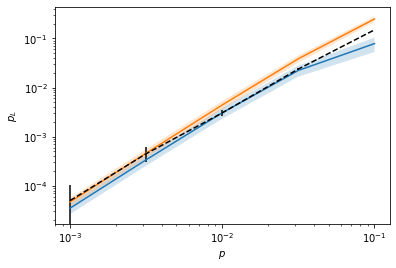
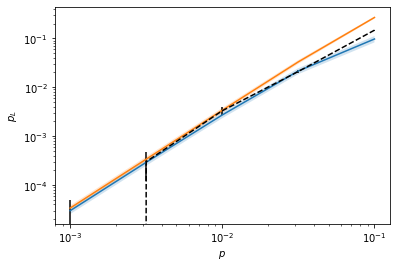
fixed docs

Changed region(s): [[0.1212, 0.0597, 0.9697, 0.8358], [0.1212, 0.5075, 0.1515, 0.5373]]

diff --git a/docs/examples.html b/docs/examples.html
@@ -294,19 +294,19 @@ code span.wa { color: #60a0b0; font-weight: bold; font-style: italic; } /* Warni
 <span id="cb1-4"><a href="#cb1-4" aria-hidden="true" tabindex="-1"></a>err_params <span class="op">=</span> {<span class="st">'q'</span>: sample_range}</span>
 <span id="cb1-5"><a href="#cb1-5" aria-hidden="true" tabindex="-1"></a>err_model <span class="op">=</span> qs.noise.S1</span>
 <span id="cb1-6"><a href="#cb1-6" aria-hidden="true" tabindex="-1"></a>CHP <span class="op">=</span> qs.StabilizerSimulator</span>
-<span id="cb1-7"><a href="#cb1-7" aria-hidden="true" tabindex="-1"></a>p_max <span class="op">=</span> {<span class="st">'q'</span>: <span class="fl">1e-2</span>}</span>
+<span id="cb1-7"><a href="#cb1-7" aria-hidden="true" tabindex="-1"></a>p_max <span class="op">=</span> {<span class="st">'q'</span>: <span class="fl">1e-3</span>}</span>
 <span id="cb1-8"><a href="#cb1-8" aria-hidden="true" tabindex="-1"></a></span>
 <span id="cb1-9"><a href="#cb1-9" aria-hidden="true" tabindex="-1"></a><span class="co"># Direct MC sampling</span></span>
 <span id="cb1-10"><a href="#cb1-10" aria-hidden="true" tabindex="-1"></a></span>
 <span id="cb1-11"><a href="#cb1-11" aria-hidden="true" tabindex="-1"></a><span class="bu">print</span>(<span class="st">"--- Direct MC sampling ---"</span>)</span>
 <span id="cb1-12"><a href="#cb1-12" aria-hidden="true" tabindex="-1"></a></span>
 <span id="cb1-13"><a href="#cb1-13" aria-hidden="true" tabindex="-1"></a>mc_sam <span class="op">=</span> qs.DirectSampler(ghz1, CHP, err_params<span class="op">=</span>err_params, err_model<span class="op">=</span>err_model)</span>
-<span id="cb1-14"><a href="#cb1-14" aria-hidden="true" tabindex="-1"></a>mc_sam.run(<span class="dv">20000</span>) <span class="co"># Needs 20k * len(sample_range) samples</span></span>
+<span id="cb1-14"><a href="#cb1-14" aria-hidden="true" tabindex="-1"></a>mc_sam.run(<span class="dv">10_000</span>)</span>
 <span id="cb1-15"><a href="#cb1-15" aria-hidden="true" tabindex="-1"></a></span>
 <span id="cb1-16"><a href="#cb1-16" aria-hidden="true" tabindex="-1"></a><span class="bu">print</span>(<span class="st">"--- Subset sampling ---"</span>)</span>
 <span id="cb1-17"><a href="#cb1-17" aria-hidden="true" tabindex="-1"></a></span>
-<span id="cb1-18"><a href="#cb1-18" aria-hidden="true" tabindex="-1"></a>ss_sam <span class="op">=</span> qs.SubsetSampler(protocol<span class="op">=</span>ghz1, simulator<span class="op">=</span>CHP,  p_max<span class="op">=</span>p_max, err_model<span class="op">=</span>err_model, err_params<span class="op">=</span>err_params, L<span class="op">=</span><span class="dv">2</span>)</span>
-<span id="cb1-19"><a href="#cb1-19" aria-hidden="true" tabindex="-1"></a>ss_sam.run(<span class="dv">10000</span>) <span class="co"># Needs only 10k samples</span></span>
+<span id="cb1-18"><a href="#cb1-18" aria-hidden="true" tabindex="-1"></a>ss_sam <span class="op">=</span> qs.SubsetSampler(protocol<span class="op">=</span>ghz1, simulator<span class="op">=</span>CHP,  p_max<span class="op">=</span>p_max, err_model<span class="op">=</span>err_model, err_params<span class="op">=</span>err_params, L<span class="op">=</span><span class="dv">1</span>)</span>
+<span id="cb1-19"><a href="#cb1-19" aria-hidden="true" tabindex="-1"></a>ss_sam.run(<span class="dv">1_000</span>)</span>
 <span id="cb1-20"><a href="#cb1-20" aria-hidden="true" tabindex="-1"></a></span>
 <span id="cb1-21"><a href="#cb1-21" aria-hidden="true" tabindex="-1"></a><span class="co"># Plot results</span></span>
 <span id="cb1-22"><a href="#cb1-22" aria-hidden="true" tabindex="-1"></a></span>
@@ -325,27 +325,27 @@ code span.wa { color: #60a0b0; font-weight: bold; font-style: italic; } /* Warni
 </div>
 <div class="cell-output cell-output-display">
 <script type="application/vnd.jupyter.widget-view+json">
-{"model_id":"c30af7352b8848efbcc036e228322e73","version_major":2,"version_minor":0}
+{"model_id":"f5078ea69ee44ca2a9e4a59f958fa6cc","version_major":2,"version_minor":0}
 </script>
 </div>
 <div class="cell-output cell-output-display">
 <script type="application/vnd.jupyter.widget-view+json">
-{"model_id":"85d17ff6d8e84d2db1382b3663cb8faf","version_major":2,"version_minor":0}
+{"model_id":"6423f318dcca4695a9341d6b135b69b5","version_major":2,"version_minor":0}
 </script>
 </div>
 <div class="cell-output cell-output-display">
 <script type="application/vnd.jupyter.widget-view+json">
-{"model_id":"88d947adb6e14329b6f917a2410565ce","version_major":2,"version_minor":0}
+{"model_id":"a3041b233b794ff6be5dc13bf84d2069","version_major":2,"version_minor":0}
 </script>
 </div>
 <div class="cell-output cell-output-display">
 <script type="application/vnd.jupyter.widget-view+json">
-{"model_id":"dbb835f27a074435a88fadb0f7f635a5","version_major":2,"version_minor":0}
+{"model_id":"51e00cdcd8ee43358aeeebb7924f6ab2","version_major":2,"version_minor":0}
 </script>
 </div>
 <div class="cell-output cell-output-display">
 <script type="application/vnd.jupyter.widget-view+json">
-{"model_id":"c00abc8bbcb74b69a8290e609cd02b67","version_major":2,"version_minor":0}
+{"model_id":"e284d42109404a6cb53edd8c4db2e9b4","version_major":2,"version_minor":0}
 </script>
 </div>
 <div class="cell-output cell-output-stdout">
@@ -353,7 +353,7 @@ code span.wa { color: #60a0b0; font-weight: bold; font-style: italic; } /* Warni
 </div>
 <div class="cell-output cell-output-display">
 <script type="application/vnd.jupyter.widget-view+json">
-{"model_id":"3132f5207a9f4c5d835c559ef0faedeb","version_major":2,"version_minor":0}
+{"model_id":"32c96c9a54454bb09a61c49fd6375415","version_major":2,"version_minor":0}
 </script>
 </div>
 <div class="cell-output cell-output-display">
@@ -381,12 +381,12 @@ code span.wa { color: #60a0b0; font-weight: bold; font-style: italic; } /* Warni
 <span id="cb5-11"><a href="#cb5-11" aria-hidden="true" tabindex="-1"></a><span class="bu">print</span>(<span class="st">"--- Direct MC sampling ---"</span>)</span>
 <span id="cb5-12"><a href="#cb5-12" aria-hidden="true" tabindex="-1"></a></span>
 <span id="cb5-13"><a href="#cb5-13" aria-hidden="true" tabindex="-1"></a>mc_sam <span class="op">=</span> qs.DirectSampler(steane0, CHP, err_params<span class="op">=</span>err_params, err_model<span class="op">=</span>err_model)</span>
-<span id="cb5-14"><a href="#cb5-14" aria-hidden="true" tabindex="-1"></a>mc_sam.run(<span class="dv">20000</span>)</span>
+<span id="cb5-14"><a href="#cb5-14" aria-hidden="true" tabindex="-1"></a>mc_sam.run(<span class="dv">10_000</span>)</span>
 <span id="cb5-15"><a href="#cb5-15" aria-hidden="true" tabindex="-1"></a></span>
 <span id="cb5-16"><a href="#cb5-16" aria-hidden="true" tabindex="-1"></a><span class="bu">print</span>(<span class="st">"--- Subset sampling ---"</span>)</span>
 <span id="cb5-17"><a href="#cb5-17" aria-hidden="true" tabindex="-1"></a></span>
-<span id="cb5-18"><a href="#cb5-18" aria-hidden="true" tabindex="-1"></a>ss_sam <span class="op">=</span> qs.SubsetSampler(steane0, CHP,  p_max<span class="op">=</span>p_max, err_model<span class="op">=</span>err_model, err_params<span class="op">=</span>err_params, L<span class="op">=</span><span class="dv">3</span>)</span>
-<span id="cb5-19"><a href="#cb5-19" aria-hidden="true" tabindex="-1"></a>ss_sam.run(<span class="dv">2000</span>)</span>
+<span id="cb5-18"><a href="#cb5-18" aria-hidden="true" tabindex="-1"></a>ss_sam <span class="op">=</span> qs.SubsetSampler(steane0, CHP,  p_max<span class="op">=</span>p_max, err_model<span class="op">=</span>err_model, err_params<span class="op">=</span>err_params, L<span class="op">=</span><span class="dv">4</span>)</span>
+<span id="cb5-19"><a href="#cb5-19" aria-hidden="true" tabindex="-1"></a>ss_sam.run(<span class="dv">10_000</span>)</span>
 <span id="cb5-20"><a href="#cb5-20" aria-hidden="true" tabindex="-1"></a></span>
 <span id="cb5-21"><a href="#cb5-21" aria-hidden="true" tabindex="-1"></a><span class="co"># Plot results</span></span>
 <span id="cb5-22"><a href="#cb5-22" aria-hidden="true" tabindex="-1"></a></span>
@@ -405,27 +405,27 @@ code span.wa { color: #60a0b0; font-weight: bold; font-style: italic; } /* Warni
 </div>
 <div class="cell-output cell-output-display">
 <script type="application/vnd.jupyter.widget-view+json">
-{"model_id":"f39fcc91064d442ca6ee5f3e2f3db9f1","version_major":2,"version_minor":0}
+{"model_id":"7e6ab30c00b2495480d23978960e9926","version_major":2,"version_minor":0}
 </script>
 </div>
 <div class="cell-output cell-output-display">
 <script type="application/vnd.jupyter.widget-view+json">
-{"model_id":"3337fa960307438ead25da9739eaad37","version_major":2,"version_minor":0}
+{"model_id":"fdb4ce11a95d4899b3a6cd5b0721db95","version_major":2,"version_minor":0}
 </script>
 </div>
 <div class="cell-output cell-output-display">
 <script type="application/vnd.jupyter.widget-view+json">
-{"model_id":"b986a7550f2e46fda02b35dfcbc119ed","version_major":2,"version_minor":0}
+{"model_id":"a481167bc2a74cbf9edfa12eb1df0091","version_major":2,"version_minor":0}
 </script>
 </div>
 <div class="cell-output cell-output-display">
 <script type="application/vnd.jupyter.widget-view+json">
-{"model_id":"f75e793da15541af950ed4425027da92","version_major":2,"version_minor":0}
+{"model_id":"e323c4f1f7a544b18d1f78ea71ae58c0","version_major":2,"version_minor":0}
 </script>
 </div>
 <div class="cell-output cell-output-display">
 <script type="application/vnd.jupyter.widget-view+json">
-{"model_id":"7bbdd326b02346ea8e7f85a064319f6f","version_major":2,"version_minor":0}
+{"model_id":"87a80b2fb2d44da6ad252ae004ceb8bf","version_major":2,"version_minor":0}
 </script>
 </div>
 <div class="cell-output cell-output-stdout">
@@ -433,7 +433,7 @@ code span.wa { color: #60a0b0; font-weight: bold; font-style: italic; } /* Warni
 </div>
 <div class="cell-output cell-output-display">
 <script type="application/vnd.jupyter.widget-view+json">
-{"model_id":"cb56b7ff9797486281361f7118761854","version_major":2,"version_minor":0}
+{"model_id":"b4925ecb86844b1a919238842b0b808d","version_major":2,"version_minor":0}
 </script>
 </div>
 <div class="cell-output cell-output-display">
@@ -450,37 +450,36 @@ code span.wa { color: #60a0b0; font-weight: bold; font-style: italic; } /* Warni
 <div class="cell">
 <div class="sourceCode cell-code" id="cb9"><pre class="sourceCode python code-with-copy"><code class="sourceCode python"><span id="cb9-1"><a href="#cb9-1" aria-hidden="true" tabindex="-1"></a><span class="co"># Sampling parameters</span></span>
 <span id="cb9-2"><a href="#cb9-2" aria-hidden="true" tabindex="-1"></a></span>
-<span id="cb9-3"><a href="#cb9-3" aria-hidden="true" tabindex="-1"></a><span class="co"># sample_range = np.logspace(-4,-1,7)</span></span>
-<span id="cb9-4"><a href="#cb9-4" aria-hidden="true" tabindex="-1"></a>sample_range <span class="op">=</span> np.logspace(<span class="op">-</span><span class="dv">3</span>,<span class="dv">0</span>,<span class="dv">5</span>)</span>
-<span id="cb9-5"><a href="#cb9-5" aria-hidden="true" tabindex="-1"></a>err_params <span class="op">=</span> {<span class="st">'q'</span>: sample_range}</span>
-<span id="cb9-6"><a href="#cb9-6" aria-hidden="true" tabindex="-1"></a>err_model <span class="op">=</span> qs.noise.S1</span>
-<span id="cb9-7"><a href="#cb9-7" aria-hidden="true" tabindex="-1"></a>CHP <span class="op">=</span> qs.StabilizerSimulator</span>
-<span id="cb9-8"><a href="#cb9-8" aria-hidden="true" tabindex="-1"></a>p_max <span class="op">=</span> {<span class="st">'q'</span>: <span class="fl">1e-2</span>}</span>
-<span id="cb9-9"><a href="#cb9-9" aria-hidden="true" tabindex="-1"></a></span>
-<span id="cb9-10"><a href="#cb9-10" aria-hidden="true" tabindex="-1"></a><span class="co"># Direct MC sampling</span></span>
-<span id="cb9-11"><a href="#cb9-11" aria-hidden="true" tabindex="-1"></a></span>
-<span id="cb9-12"><a href="#cb9-12" aria-hidden="true" tabindex="-1"></a><span class="bu">print</span>(<span class="st">"--- Direct MC sampling ---"</span>)</span>
-<span id="cb9-13"><a href="#cb9-13" aria-hidden="true" tabindex="-1"></a></span>
-<span id="cb9-14"><a href="#cb9-14" aria-hidden="true" tabindex="-1"></a>mc_sam <span class="op">=</span> qs.DirectSampler(flagstab, CHP, err_params<span class="op">=</span>err_params, err_model<span class="op">=</span>err_model)</span>
-<span id="cb9-15"><a href="#cb9-15" aria-hidden="true" tabindex="-1"></a>mc_sam.run(<span class="dv">10000</span>)</span>
-<span id="cb9-16"><a href="#cb9-16" aria-hidden="true" tabindex="-1"></a></span>
-<span id="cb9-17"><a href="#cb9-17" aria-hidden="true" tabindex="-1"></a><span class="bu">print</span>(<span class="st">"--- Subset sampling ---"</span>)</span>
-<span id="cb9-18"><a href="#cb9-18" aria-hidden="true" tabindex="-1"></a></span>
-<span id="cb9-19"><a href="#cb9-19" aria-hidden="true" tabindex="-1"></a>ss_sam <span class="op">=</span> qs.SubsetSampler(flagstab, CHP,  p_max<span class="op">=</span>p_max, err_model<span class="op">=</span>err_model, err_params<span class="op">=</span>err_params, L<span class="op">=</span><span class="dv">8</span>)</span>
-<span id="cb9-20"><a href="#cb9-20" aria-hidden="true" tabindex="-1"></a>ss_sam.run(<span class="dv">10000</span>)</span>
-<span id="cb9-21"><a href="#cb9-21" aria-hidden="true" tabindex="-1"></a></span>
-<span id="cb9-22"><a href="#cb9-22" aria-hidden="true" tabindex="-1"></a><span class="co"># Plot results</span></span>
-<span id="cb9-23"><a href="#cb9-23" aria-hidden="true" tabindex="-1"></a></span>
-<span id="cb9-24"><a href="#cb9-24" aria-hidden="true" tabindex="-1"></a>p_L, std <span class="op">=</span> mc_sam.stats()</span>
-<span id="cb9-25"><a href="#cb9-25" aria-hidden="true" tabindex="-1"></a>p_L_low, ss_std_low, p_L_up, ss_std_up <span class="op">=</span> ss_sam.stats()</span>
-<span id="cb9-26"><a href="#cb9-26" aria-hidden="true" tabindex="-1"></a></span>
-<span id="cb9-27"><a href="#cb9-27" aria-hidden="true" tabindex="-1"></a>plt.errorbar(sample_range, p_L, fmt<span class="op">=</span><span class="st">'--'</span>, c<span class="op">=</span><span class="st">"black"</span>, yerr<span class="op">=</span>std, label<span class="op">=</span><span class="st">"Direct MC"</span>)</span>
-<span id="cb9-28"><a href="#cb9-28" aria-hidden="true" tabindex="-1"></a>plt.loglog(sample_range, p_L_low, label<span class="op">=</span><span class="st">'SS low'</span>)</span>
-<span id="cb9-29"><a href="#cb9-29" aria-hidden="true" tabindex="-1"></a>plt.fill_between(sample_range, p_L_low<span class="op">-</span>ss_std_low, p_L_low<span class="op">+</span>ss_std_low, alpha<span class="op">=</span><span class="fl">0.2</span>)</span>
-<span id="cb9-30"><a href="#cb9-30" aria-hidden="true" tabindex="-1"></a>plt.loglog(sample_range, p_L_up, label<span class="op">=</span><span class="st">'SS low'</span>)</span>
-<span id="cb9-31"><a href="#cb9-31" aria-hidden="true" tabindex="-1"></a>plt.fill_between(sample_range, p_L_up<span class="op">-</span>ss_std_up, p_L_up<span class="op">+</span>ss_std_up, alpha<span class="op">=</span><span class="fl">0.2</span>)</span>
-<span id="cb9-32"><a href="#cb9-32" aria-hidden="true" tabindex="-1"></a>plt.ylabel(<span class="st">'$p_L$'</span>)</span>
-<span id="cb9-33"><a href="#cb9-33" aria-hidden="true" tabindex="-1"></a>plt.xlabel(<span class="st">'$p$'</span>)</span></code><button title="Copy to Clipboard" class="code-copy-button"><i class="bi"></i></button></pre></div>
+<span id="cb9-3"><a href="#cb9-3" aria-hidden="true" tabindex="-1"></a>sample_range <span class="op">=</span> np.logspace(<span class="op">-</span><span class="dv">3</span>,<span class="dv">0</span>,<span class="dv">5</span>)</span>
+<span id="cb9-4"><a href="#cb9-4" aria-hidden="true" tabindex="-1"></a>err_params <span class="op">=</span> {<span class="st">'q'</span>: sample_range}</span>
+<span id="cb9-5"><a href="#cb9-5" aria-hidden="true" tabindex="-1"></a>err_model <span class="op">=</span> qs.noise.S1</span>
+<span id="cb9-6"><a href="#cb9-6" aria-hidden="true" tabindex="-1"></a>CHP <span class="op">=</span> qs.StabilizerSimulator</span>
+<span id="cb9-7"><a href="#cb9-7" aria-hidden="true" tabindex="-1"></a>p_max <span class="op">=</span> {<span class="st">'q'</span>: <span class="fl">1e-2</span>}</span>
+<span id="cb9-8"><a href="#cb9-8" aria-hidden="true" tabindex="-1"></a></span>
+<span id="cb9-9"><a href="#cb9-9" aria-hidden="true" tabindex="-1"></a><span class="co"># Direct MC sampling</span></span>
+<span id="cb9-10"><a href="#cb9-10" aria-hidden="true" tabindex="-1"></a></span>
+<span id="cb9-11"><a href="#cb9-11" aria-hidden="true" tabindex="-1"></a><span class="bu">print</span>(<span class="st">"--- Direct MC sampling ---"</span>)</span>
+<span id="cb9-12"><a href="#cb9-12" aria-hidden="true" tabindex="-1"></a></span>
+<span id="cb9-13"><a href="#cb9-13" aria-hidden="true" tabindex="-1"></a>mc_sam <span class="op">=</span> qs.DirectSampler(flagstab, CHP, err_params<span class="op">=</span>err_params, err_model<span class="op">=</span>err_model)</span>
+<span id="cb9-14"><a href="#cb9-14" aria-hidden="true" tabindex="-1"></a>mc_sam.run(<span class="dv">10_000</span>)</span>
+<span id="cb9-15"><a href="#cb9-15" aria-hidden="true" tabindex="-1"></a></span>
+<span id="cb9-16"><a href="#cb9-16" aria-hidden="true" tabindex="-1"></a><span class="bu">print</span>(<span class="st">"--- Subset sampling ---"</span>)</span>
+<span id="cb9-17"><a href="#cb9-17" aria-hidden="true" tabindex="-1"></a></span>
+<span id="cb9-18"><a href="#cb9-18" aria-hidden="true" tabindex="-1"></a>ss_sam <span class="op">=</span> qs.SubsetSampler(flagstab, CHP,  p_max<span class="op">=</span>p_max, err_model<span class="op">=</span>err_model, err_params<span class="op">=</span>err_params, L<span class="op">=</span><span class="dv">8</span>)</span>
+<span id="cb9-19"><a href="#cb9-19" aria-hidden="true" tabindex="-1"></a>ss_sam.run(<span class="dv">10_000</span>)</span>
+<span id="cb9-20"><a href="#cb9-20" aria-hidden="true" tabindex="-1"></a></span>
+<span id="cb9-21"><a href="#cb9-21" aria-hidden="true" tabindex="-1"></a><span class="co"># Plot results</span></span>
+<span id="cb9-22"><a href="#cb9-22" aria-hidden="true" tabindex="-1"></a></span>
+<span id="cb9-23"><a href="#cb9-23" aria-hidden="true" tabindex="-1"></a>p_L, std <span class="op">=</span> mc_sam.stats()</span>
+<span id="cb9-24"><a href="#cb9-24" aria-hidden="true" tabindex="-1"></a>p_L_low, ss_std_low, p_L_up, ss_std_up <span class="op">=</span> ss_sam.stats()</span>
+<span id="cb9-25"><a href="#cb9-25" aria-hidden="true" tabindex="-1"></a></span>
+<span id="cb9-26"><a href="#cb9-26" aria-hidden="true" tabindex="-1"></a>plt.errorbar(sample_range, p_L, fmt<span class="op">=</span><span class="st">'--'</span>, c<span class="op">=</span><span class="st">"black"</span>, yerr<span class="op">=</span>std, label<span class="op">=</span><span class="st">"Direct MC"</span>)</span>
+<span id="cb9-27"><a href="#cb9-27" aria-hidden="true" tabindex="-1"></a>plt.loglog(sample_range, p_L_low, label<span class="op">=</span><span class="st">'SS low'</span>)</span>
+<span id="cb9-28"><a href="#cb9-28" aria-hidden="true" tabindex="-1"></a>plt.fill_between(sample_range, p_L_low<span class="op">-</span>ss_std_low, p_L_low<span class="op">+</span>ss_std_low, alpha<span class="op">=</span><span class="fl">0.2</span>)</span>
+<span id="cb9-29"><a href="#cb9-29" aria-hidden="true" tabindex="-1"></a>plt.loglog(sample_range, p_L_up, label<span class="op">=</span><span class="st">'SS low'</span>)</span>
+<span id="cb9-30"><a href="#cb9-30" aria-hidden="true" tabindex="-1"></a>plt.fill_between(sample_range, p_L_up<span class="op">-</span>ss_std_up, p_L_up<span class="op">+</span>ss_std_up, alpha<span class="op">=</span><span class="fl">0.2</span>)</span>
+<span id="cb9-31"><a href="#cb9-31" aria-hidden="true" tabindex="-1"></a>plt.ylabel(<span class="st">'$p_L$'</span>)</span>
+<span id="cb9-32"><a href="#cb9-32" aria-hidden="true" tabindex="-1"></a>plt.xlabel(<span class="st">'$p$'</span>)</span></code><button title="Copy to Clipboard" class="code-copy-button"><i class="bi"></i></button></pre></div>
 <div class="cell-output cell-output-stdout">
 <pre><code>--- Direct MC sampling ---</code></pre>
 </div>
